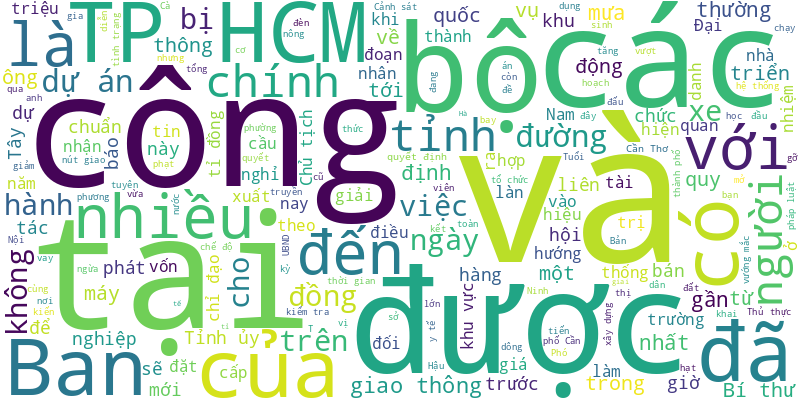
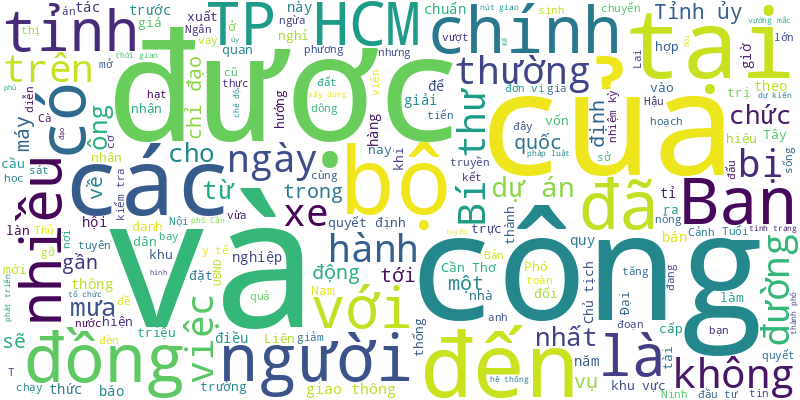
🍀 = 40%

diff --git a/README.md b/README.md
@@ -1,6 +1,7 @@
 # Tuoi Tre RSS 
 
 ## Giáo dục 
+- Tại hội nghị giáo dục đại học tổ chức ngày 18-9, Bộ GD-ĐT gửi phiếu thăm dò ý kiến về hai vấn đề liên quan tới tuyển sinh.
 - TP.HCM dự kiến từ tháng 10-2025 đến hết học kỳ 1 năm học 2025-2026 sẽ thực hiện thí điểm giờ ra chơi không điện thoại tại 16 trường.
 - Bộ Giáo dục và Đào tạo cho biết việc đẩy mạnh tự chủ trong các cơ sở giáo dục đại học công lập thời gian qua đã tạo động lực quan trọng giúp các trường chú trọng nâng cao chất lượng đội ngũ giảng viên.
 - Sở Giáo dục và Đào tạo Hà Nội yêu cầu các trường công khai thực đơn bữa ăn bán trú, nguồn gốc thực phẩm chế biến.
@@ -50,9 +51,11 @@
 - Ông Trần Lưu Quang cho biết từ ngày về làm Bí thư Thành ủy TP.HCM, ông nhận được 12 tin nhắn phản ánh việc học sinh phải đi học thêm ngày thứ Bảy. Ông Quang hỏi rõ Giám đốc Sở Giáo dục và Đào tạo TP.HCM việc này.
 - Việc Sở GD-ĐT TP.HCM ban hành khung giờ vào học, tan học đối với các trường mầm non, phổ thông trên địa bàn đã khiến nhiều phụ huynh vỡ òa vì vui mừng. Nhất là những phụ huynh phải đi làm theo giờ hành chính.
 - Năm 2026, Đại học Bách khoa Hà Nội dự kiến tổ chức 3 đợt thi với khoảng 60.000 lượt thi, trong đó đợt thi đầu tiên bắt đầu từ cuối tháng 1-2026.
-- Nhiều phụ huynh có con vào lớp 1 năm học 2025 - 2026 thắc mắc vì sao phải đóng bảo hiểm y tế cho con 15 tháng thay vì 12 tháng.
 ![Edu](Edu.png)
 ## Thời Sự 
+- Kể từ 1-10, 25 dịch vụ công thiết yếu đến đời sống của người dân sẽ chính thức chuyển sang hình thức trực tuyến theo chỉ đạo của Chính phủ.
+- Ông Lê Minh Ngân, Phó bí thư thường trực Tỉnh ủy Lai Châu, được bầu giữ chức Bí thư Tỉnh ủy Lai Châu nhiệm kỳ 2025-2030.
+- Đồng Nai chỉ đạo đến cuối năm 2025 đơn vị nào không đạt kết quả giải ngân vốn đầu tư công tỉnh sẽ điều chuyển, cách chức người đứng đầu.
 - Tin tức đáng chú ý: TP.HCM đề xuất 66.000 tỉ cho 100 dự án y tế giai đoạn năm 2026 - 2030; Hà Nội nghi có rau lạ vào trường học, tiến hành kiểm tra đột xuất bếp ăn bán trú; Ủy ban Chứng khoán không chấp nhận báo cáo tài chính kiểm toán của Timexco...
 - Hôm nay 19-9, thời tiết cả đất liền và trên biển đều xấu, trời mưa dông kèm gió giật, người dân cần chú ý.
 - Trước thềm chuyến công tác tới Mỹ, Chủ tịch nước Lương Cường đã tiếp bà Pauline Tamesis, Điều phối viên thường trú Liên hợp quốc.
@@ -100,9 +103,6 @@
 - Nhà máy nhiệt điện Vũng Áng II sử dụng công nghệ lò hơi siêu tới hạn tiên tiến nhất, cùng hệ thống giảm phát thải được sử dụng rộng rãi tại Nhật Bản và Hàn Quốc.
 - Ban Thường vụ Tỉnh ủy Khánh Hòa thông báo đến các cơ quan, địa phương, đơn vị về việc không nhận hoa chúc mừng Đại hội đại biểu Đảng bộ tỉnh lần thứ I, nhiệm kỳ 2025 - 2030.
 - Trong suốt 24 năm, Steve Koyle là bạn đồng hành với những con voi ở tám quốc gia. Tuổi Trẻ đã có cuộc trò chuyện với ông về hành trình này.
-- Dự án đường liên phường Thới An - Thạnh Xuân dài gần 4,5km, vốn hơn 3.500 tỉ đồng, sẽ tạo trục giao thông mới cho cửa ngõ Tây Bắc TP.HCM.
-- Sáng 18-9, Quân khu 7 tổng kết nhiệm vụ tìm kiếm, quy tập hài cốt, xác định hài cốt liệt sĩ còn thiếu thông tin giai đoạn 2021 - 2025.
-- Phòng Cảnh sát giao thông Công an TP.HCM triển khai 19 đội/trạm áp dụng đóng phạt chuyển khoản qua QR Code.
 ![New](News.png)
 ## Nhịp sống số 
 - Chỉ sau ít tuần phát hành, Nano Banana đã giúp Gemini vượt qua ChatGPT, trở thành ứng dụng dẫn đầu bảng xếp hạng trên App Store.
